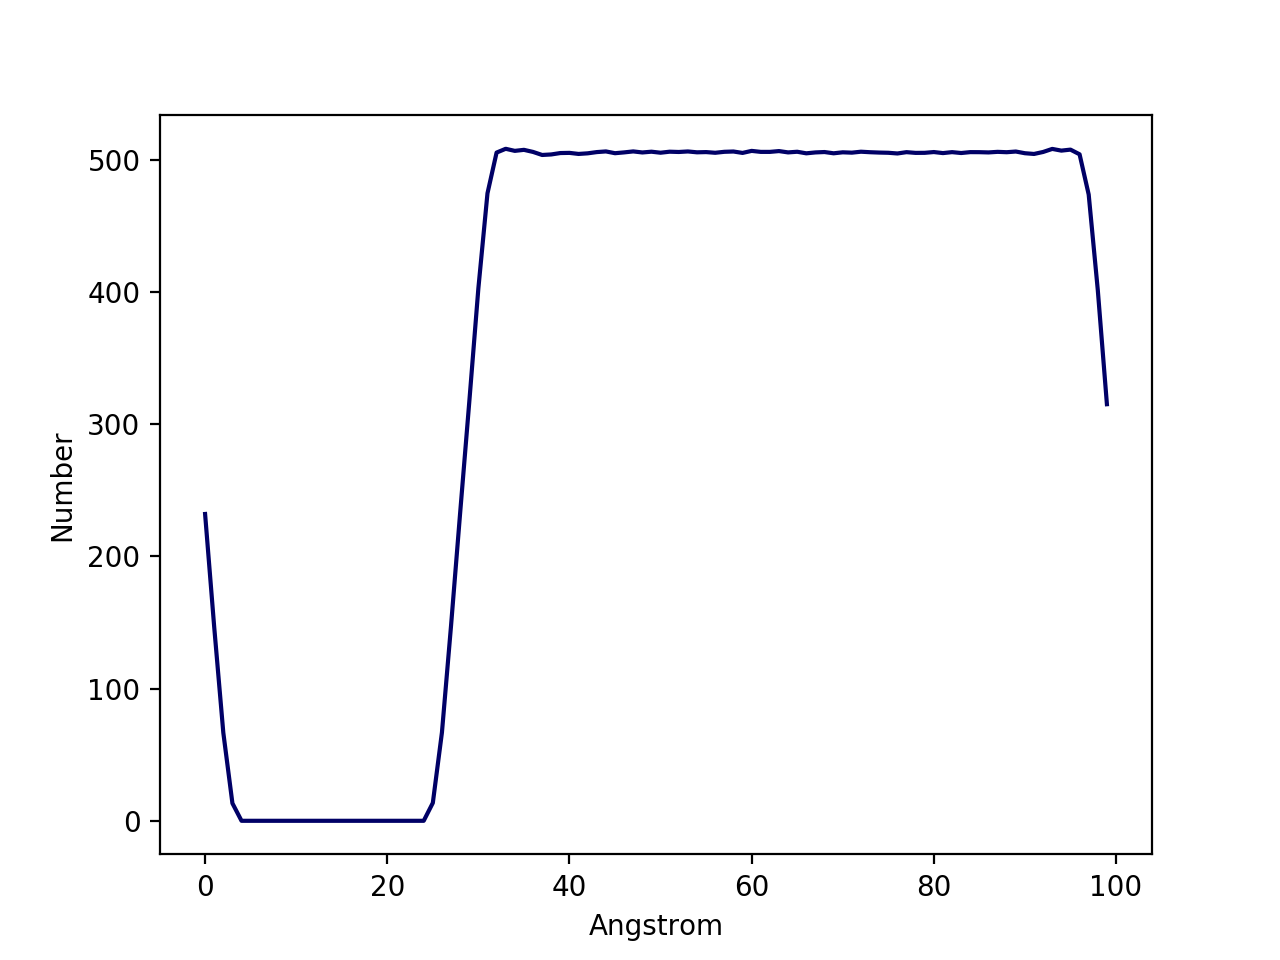
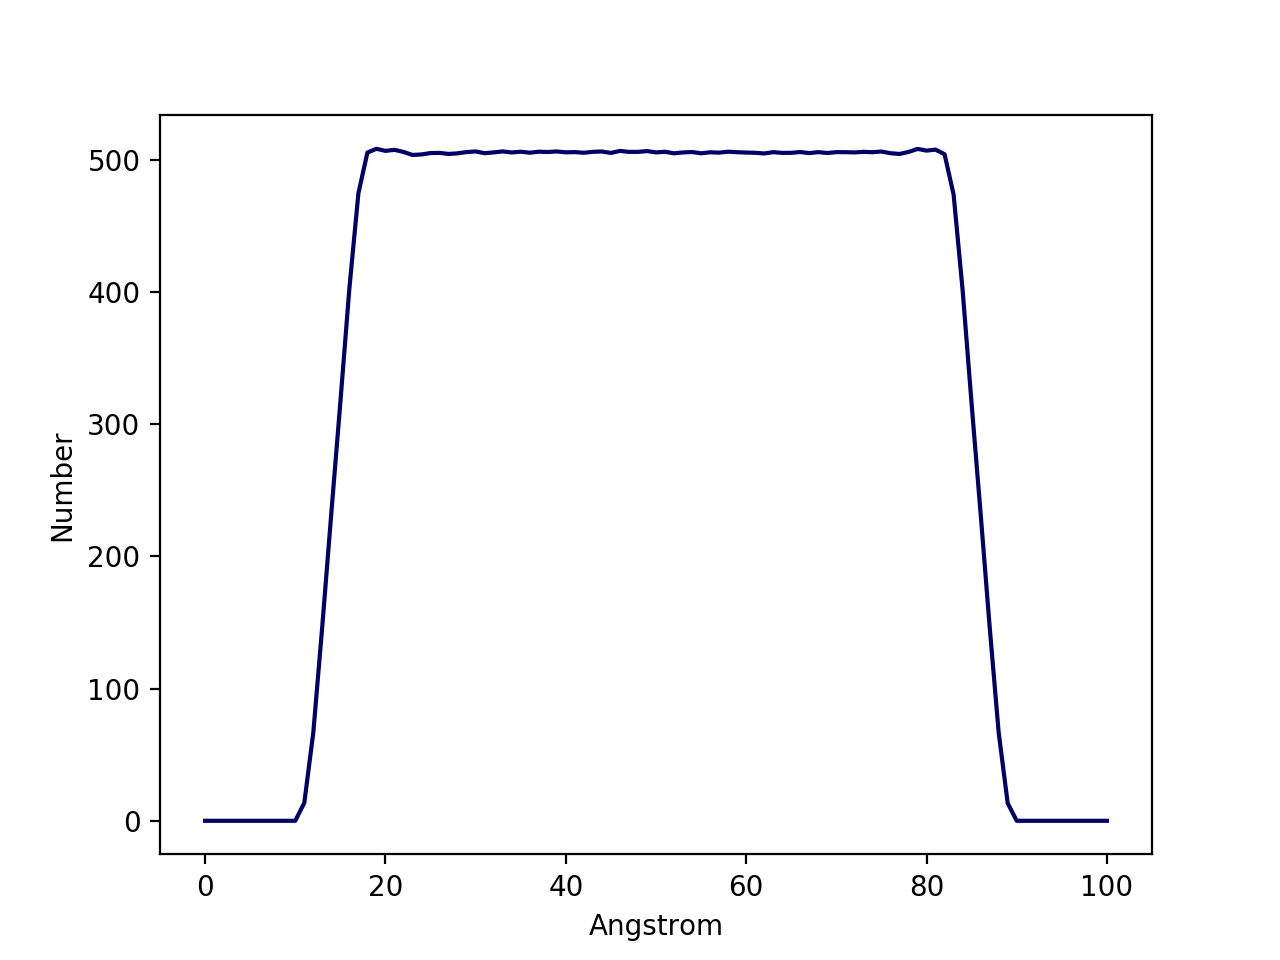
removed roll

diff --git a/SurfaceTension/Flat/fix_indent/plot_components.py b/SurfaceTension/Flat/fix_indent/plot_components.py
@@ -4,11 +4,11 @@ import matplotlib.pyplot as plt
 
 data = np.loadtxt("components_6A.dat")
 data = np.transpose(data)
-z = data[0][:-1]
+z = data[0]
 print (z)
-number = np.roll(data[6][1:],15)
-tangential = np.negative(np.roll(data[5][:-1],15))
-normal = np.negative(np.roll(data[4][:-1],15))
+number = data[6]
+tangential = np.negative(data[5])
+normal = np.negative(data[4])
 
 
 plt.figure(1)
